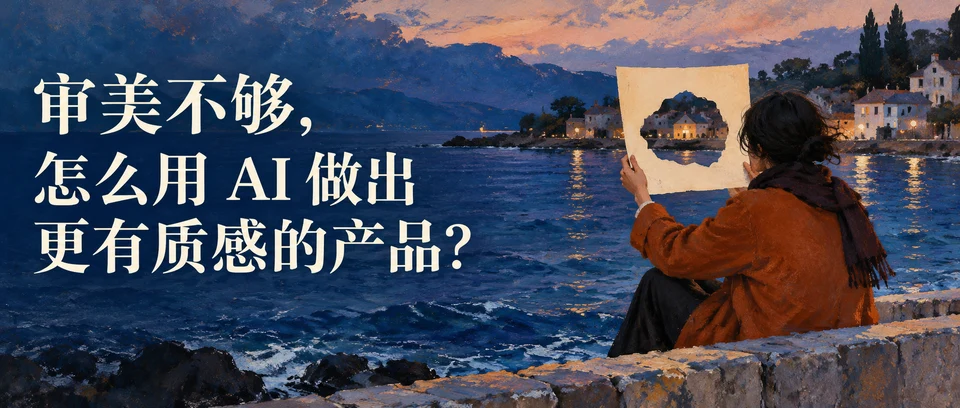
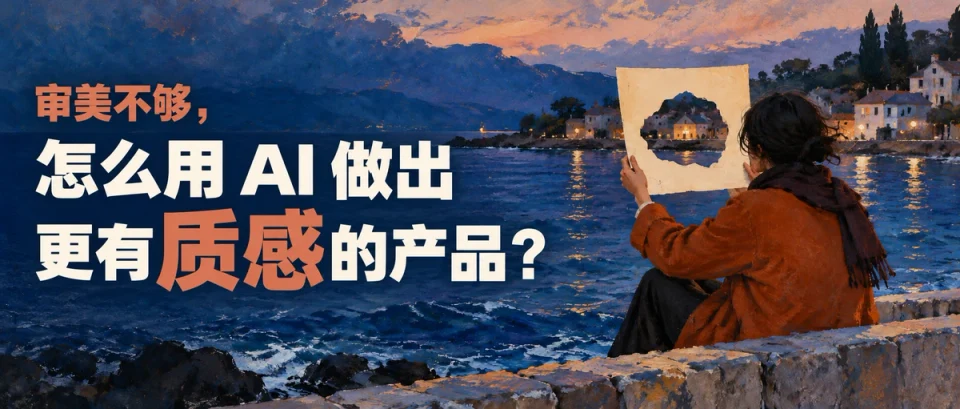
Adopt the approved bold typography cover preview

diff --git a/notes/editorial-cover-research-2026-10-20.md b/notes/editorial-cover-research-2026-10-20.md
@@ -264,3 +264,11 @@ Typography group on the left, one strict left edge about 6% inset, within the le
 Keep the type group roughly vertically centered in the calm left sea region, approximately y=25% through 67% of image height. Clear space between lead-in and main line, tight but comfortable headline spacing. Optical alignment, balanced punctuation, measured compact tracking. A strong keyword hierarchy, not three equally huge lines and not a wall of text. Give the entire group enough breathing room and do not cover the person or paper frame.
 One accent color only; all remaining main text warm ivory. No box, gradient, glow, shadow, underline, decorative strokes, badges, icons, caption, byline, date, watermark or border. No right-side information card from image 1. No new scene elements. Deliver ONE complete edited blue cover, not a side-by-side or a reference board.
 ```
+
+## D 获认可并采用为文学绘画预览
+
+用户明确反馈“这个就很不错了”，确认采用 D 的文字方向。将 D 的已认可成图完整缩放编码为 `assets/gpt-literary-painting.webp`，更新本地文学绘画模板的离线预览；原始 D 方向稿仍独立保留，旧预览可从 Git 历史恢复。没有改写标题、改变个人模板选择或新增设置。
+
+厚实紧凑黑体、一个关键词放大/单色强调、严格对齐与留白继续作为四种新编辑方向的现行文字规则。认可的是 D，本记录较早的宋体、轻字重和竖排均只是被保留的探索，不代表当前定稿。其他三种模板的现有缩略图没有在这次替换。
+
+构建和 13 项检查通过，包括更新预览在独立三文件包中的加载。个人安装及公开 Release 仍未替换，原生界面验收保持待用户稍后恢复。
